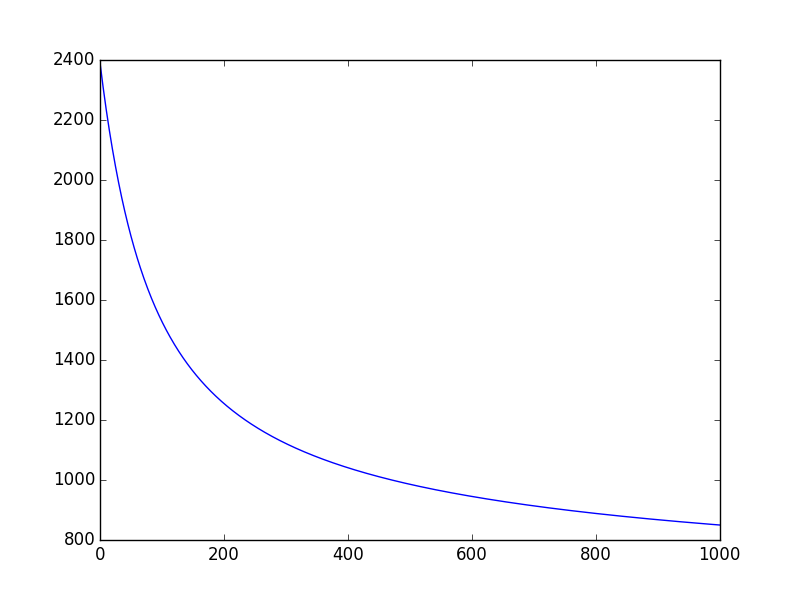
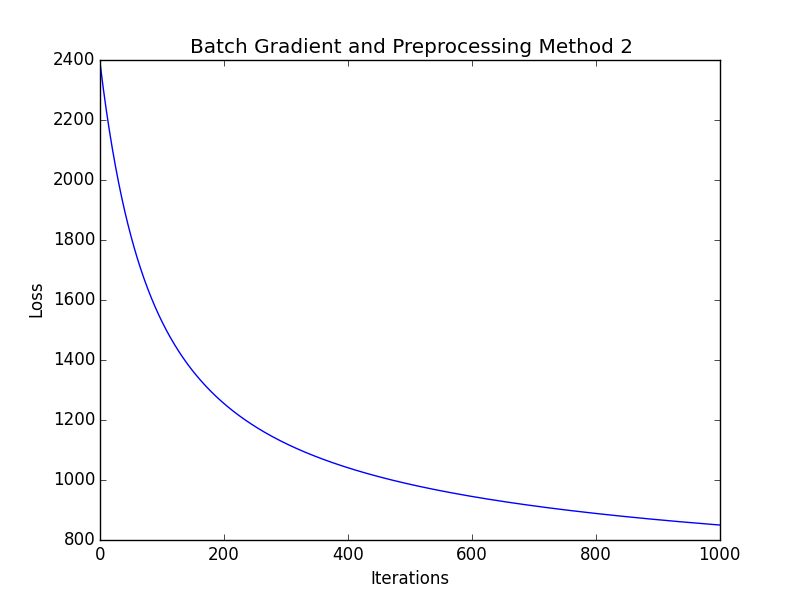
Better labeling of graphs

Changed region(s): [[0.2188, 0.06, 0.8125, 0.09], [0.4688, 0.93, 0.5625, 0.99], [0.0312, 0.48, 0.0625, 0.54]]

diff --git a/HW4/problem3.py b/HW4/problem3.py
@@ -5,11 +5,13 @@ import pylab as plt
 from enum import Enum
 
 class ProcessingMethod:
+    all = [0, 1, 2]
     normalized = 0
     logarith = 1
     sign = 2
     
 class GradientMethod :
+    all = [0, 1]
     batch = 0
     stochastic = 1
 
@@ -28,7 +30,7 @@ training_data_raw = np.array(trainMatrix['Xtrain'])
 trainingLabels_raw = np.array(trainMatrix['ytrain'])
 testData = np.array(trainMatrix['Xtest'])
 
-for PRE in [0, 1, 2]:
+for PRE in ProcessingMethod.all:
     ############# PRE-PROCESSING ############# 
     if PRE == ProcessingMethod.normalized:
         print 30*'#'
@@ -105,7 +107,8 @@ for PRE in [0, 1, 2]:
     elif GRADIENT == GradientMethod.stochastic:
         ############ STOCHASTIC GRADIENT METHOD ############# 
         for i in range(NUM_ITER):
-            step_size_loc = (step_size)/(i+1.0)
+#             step_size_loc = (step_size)/(i+1.0)
+            step_size_loc = step_size
             loss = reg*np.square(np.linalg.norm(beta)) - y.T*np.log(mu+0.000001) - (1-y).T*np.log(1-mu + 0.000001)
             beta = beta - step_size_loc*np.matrix(2*reg*beta - X[i].T*(y[i]-mu[i]))  
             mu = []
@@ -138,9 +141,13 @@ for PRE in [0, 1, 2]:
     print "Loss Array: ", (loss_array)
     
     plt.figure()
+    plt.xlabel("Iterations")
+    plt.ylabel("Loss")
+    plt.title("Constant Rate Stochastic Gradient and Preprocessing Method " + str(PRE))
     plt.plot(loss_array)
-    plt.savefig('./Results/Training_Loss_Stochastic_Variable_' + str(PRE))
+    plt.savefig('./Results/Training_Loss_Stochastic_Constant_' + str(PRE))
 
+plt.show()
 print 30*'#'
 print "THE END!"
 print 30*'#'

diff --git a/HW4/problem2.py b/HW4/problem2.py
@@ -60,6 +60,7 @@ test_labels = labels[TRAIN_COUNT:]
 beta = TrainLeastSquares(train_data, train_labels)
 
 print "Beta Shape:", beta.shape
+print "Beta 0:", beta[0]
 
 y = np.around(np.matrix(test_data)*beta, 2)
 
